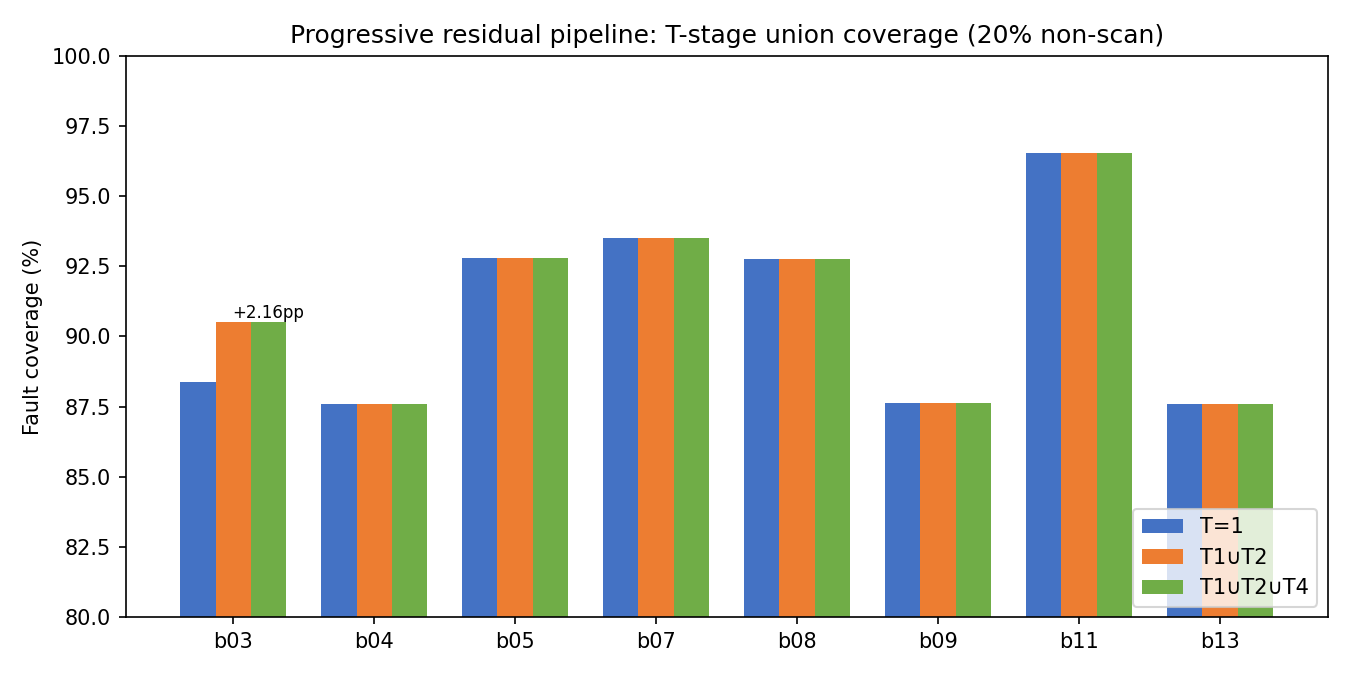
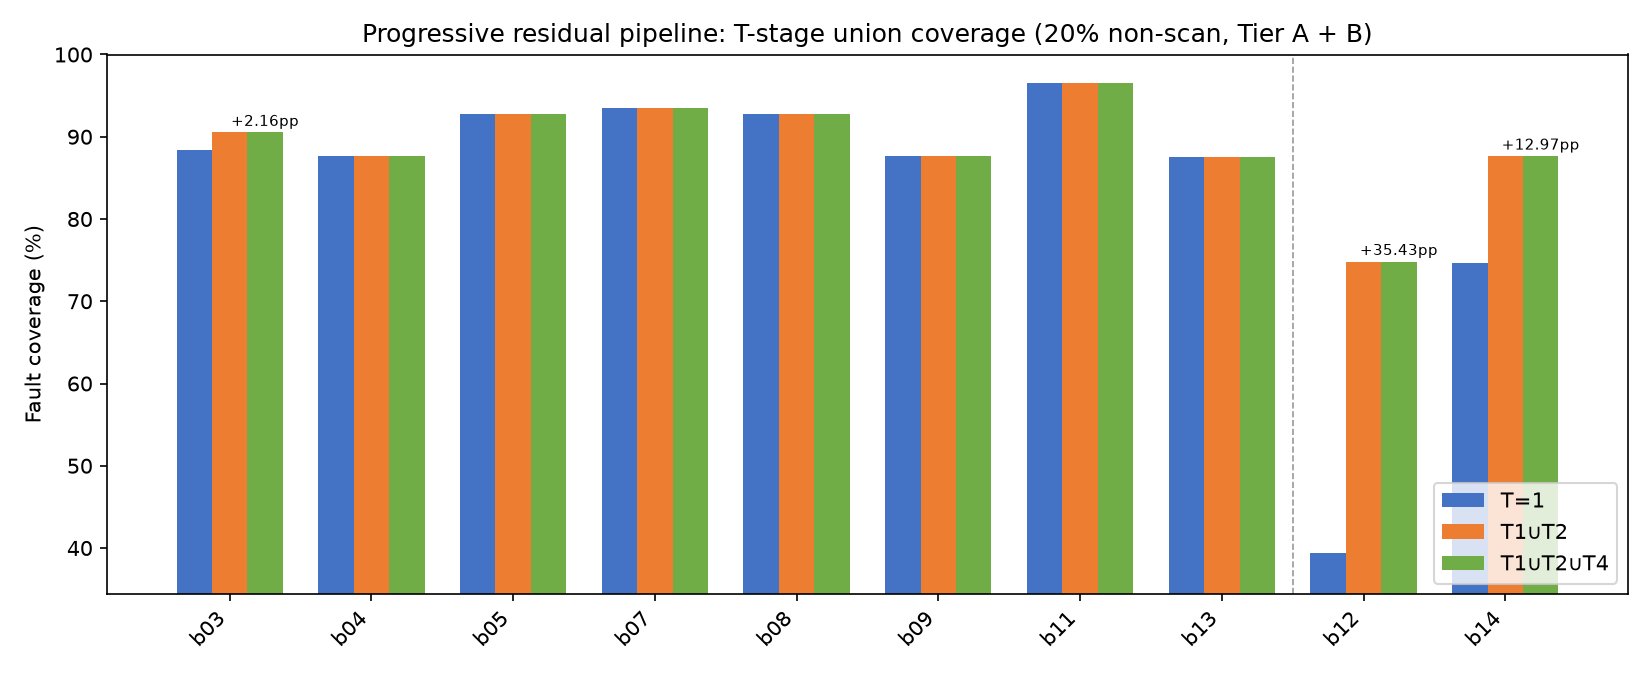
Regenerate report figures with Tier B pilot data (b12/b14).
Extend generate_figures.py to include Tier B PASS rows, auto-scale coverage
axis, and update chart PNGs and final_report figure captions.

diff --git a/scripts/generate_figures.py b/scripts/generate_figures.py
@@ -18,7 +18,8 @@ os.makedirs(FIG_DIR, exist_ok=True)
 
 CSV = os.path.join(REPO, "results", "progressive_residual_summary.csv")
 CANONICAL_RATIO = "0.2"
-CIRCUITS = ["b03", "b04", "b05", "b07", "b08", "b09", "b11", "b13"]
+TIER_A = ["b03", "b04", "b05", "b07", "b08", "b09", "b11", "b13"]
+TIER_B = ["b12", "b14"]  # exclude TIMEOUT rows (e.g. b15)
 
 
 def load_first_rows():
@@ -31,12 +32,16 @@ def load_first_rows():
     return first
 
 
-def rows_at_ratio(first, ratio):
+def rows_at_ratio(first, ratio, circuits):
     out = []
-    for c in CIRCUITS:
+    for c in circuits:
         key = (c, ratio)
-        if key in first:
-            out.append(first[key])
+        if key not in first:
+            continue
+        row = first[key]
+        if row.get("status", "PASS").upper() == "TIMEOUT":
+            continue
+        out.append(row)
     return out
 
 
@@ -47,7 +52,7 @@ def plot_t_stage_bars(rows, out_name, title):
     t124 = [float(r["FC_T1_T2_T4"]) for r in rows]
     gain = [float(r["total_gain_pp"]) for r in rows]
 
-    fig, ax = plt.subplots(figsize=(9, 4.5))
+    fig, ax = plt.subplots(figsize=(11, 4.5))
     x = np.arange(len(labels))
     w = 0.25
     ax.bar(x - w, t1, w, label="T=1", color="#4472C4")
@@ -56,12 +61,16 @@ def plot_t_stage_bars(rows, out_name, title):
     ax.set_ylabel("Fault coverage (%)")
     ax.set_title(title)
     ax.set_xticks(x)
-    ax.set_xticklabels(labels)
+    ax.set_xticklabels(labels, rotation=45, ha="right")
     ax.legend(loc="lower right")
-    ax.set_ylim(80, 100)
+    y_min = min(t1 + t12 + t124)
+    ax.set_ylim(max(0, y_min - 5), 100)
+    tier_b_start = len(TIER_A)
+    if tier_b_start < len(labels):
+        ax.axvline(tier_b_start - 0.5, color="#999999", linestyle="--", linewidth=0.8)
     for i, (g, v) in enumerate(zip(gain, t124)):
         if g > 0:
-            ax.annotate(f"+{g:.2f}pp", (x[i] + w, v + 0.15), ha="center", fontsize=8)
+            ax.annotate(f"+{g:.2f}pp", (x[i] + w, v + 0.8), ha="center", fontsize=7)
     fig.tight_layout()
     fig.savefig(os.path.join(FIG_DIR, out_name), dpi=150)
     plt.close(fig)
@@ -72,7 +81,7 @@ def plot_new_dt(rows, out_name):
     t2new = [int(r["T2_new_DT"]) for r in rows]
     t4new = [int(r["T4_new_DT"]) for r in rows]
 
-    fig, ax = plt.subplots(figsize=(9, 4))
+    fig, ax = plt.subplots(figsize=(11, 4))
     x = np.arange(len(labels))
     w = 0.35
     ax.bar(x - w / 2, t2new, w, label="New DT at T=2", color="#ED7D31")
@@ -80,8 +89,11 @@ def plot_new_dt(rows, out_name):
     ax.set_ylabel("Newly detected faults")
     ax.set_title("Residual recovery at T=2 and T=4 (20% non-scan)")
     ax.set_xticks(x)
-    ax.set_xticklabels(labels)
+    ax.set_xticklabels(labels, rotation=45, ha="right")
     ax.legend()
+    tier_b_start = len(TIER_A)
+    if tier_b_start < len(labels):
+        ax.axvline(tier_b_start - 0.5, color="#999999", linestyle="--", linewidth=0.8)
     fig.tight_layout()
     fig.savefig(os.path.join(FIG_DIR, out_name), dpi=150)
     plt.close(fig)
@@ -89,14 +101,14 @@ def plot_new_dt(rows, out_name):
 
 def main():
     first = load_first_rows()
-    rows20 = rows_at_ratio(first, CANONICAL_RATIO)
+    rows20 = rows_at_ratio(first, CANONICAL_RATIO, TIER_A + TIER_B)
     if not rows20:
         raise SystemExit("No 20% rows found in progressive_residual_summary.csv")
 
     plot_t_stage_bars(
         rows20,
         "coverage_bar_chart.png",
-        "Progressive residual pipeline: T-stage union coverage (20% non-scan)",
+        "Progressive residual pipeline: T-stage union coverage (20% non-scan, Tier A + B)",
     )
     plot_new_dt(rows20, "recovered_faults_chart.png")
 

diff --git a/docs/final_report.md b/docs/final_report.md
@@ -280,11 +280,11 @@ The +43.9pp gain demonstrates that the pipeline correctly recovers faults whose 
 
 ![T-stage union coverage at 20% non-scan](figures/coverage_bar_chart.png)
 
-*Figure 1: Primary metric — union fault coverage after each pipeline stage (20% timing-exclusion setting).*
+*Figure 1: T-stage union coverage after each pipeline stage (20% non-scan; Tier A + Tier B pilot b12/b14).*
 
 ![New detections at T=2 and T=4](figures/recovered_faults_chart.png)
 
-*Figure 2: Count of newly detected faults at each residual stage (20% setting).*
+*Figure 2: New detections at each residual stage (20% non-scan; Tier A + Tier B pilot b12/b14). Dashed line separates Tier A (left) from Tier B (right).*
 
 #### Case study: b03 @20% (only positive pipeline gain)
 
